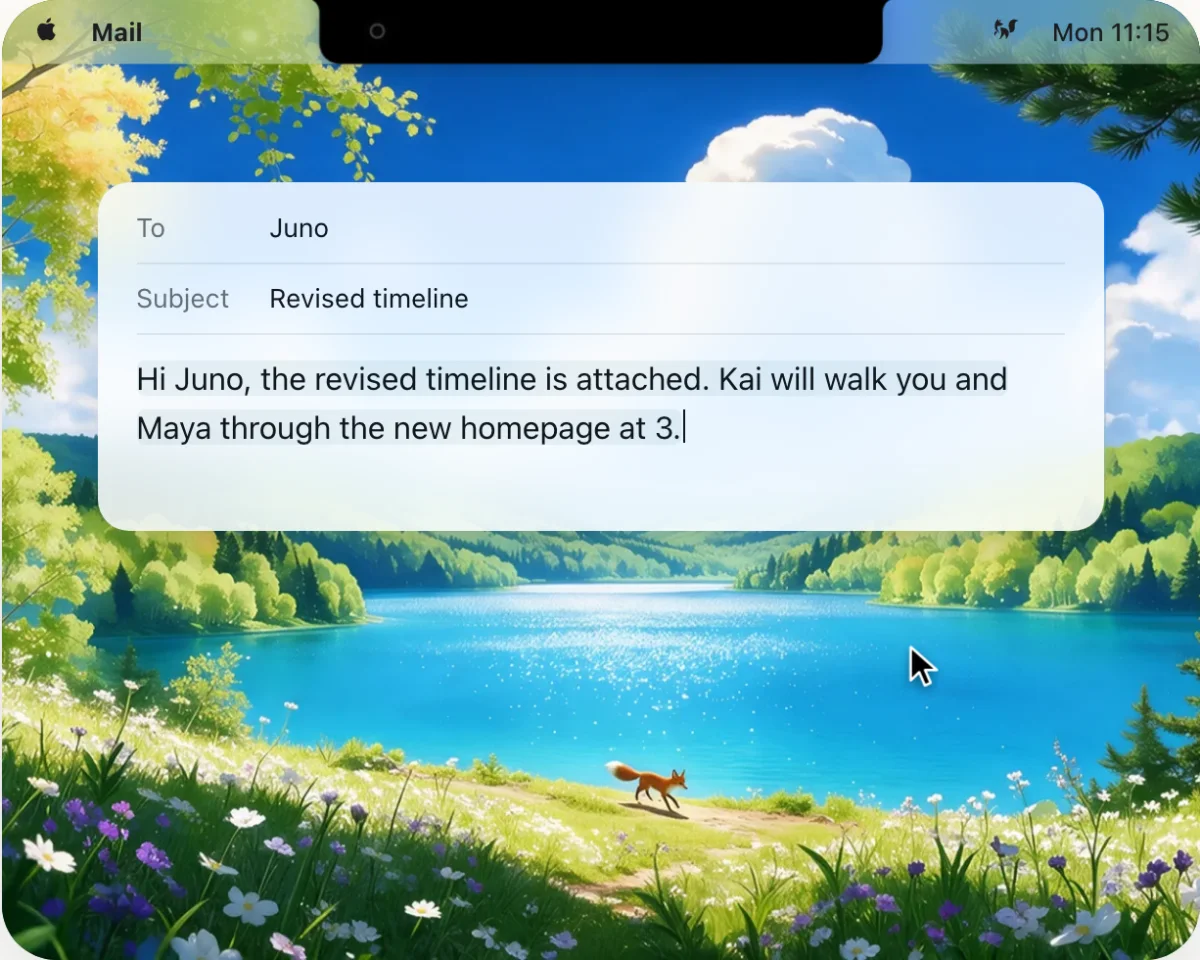
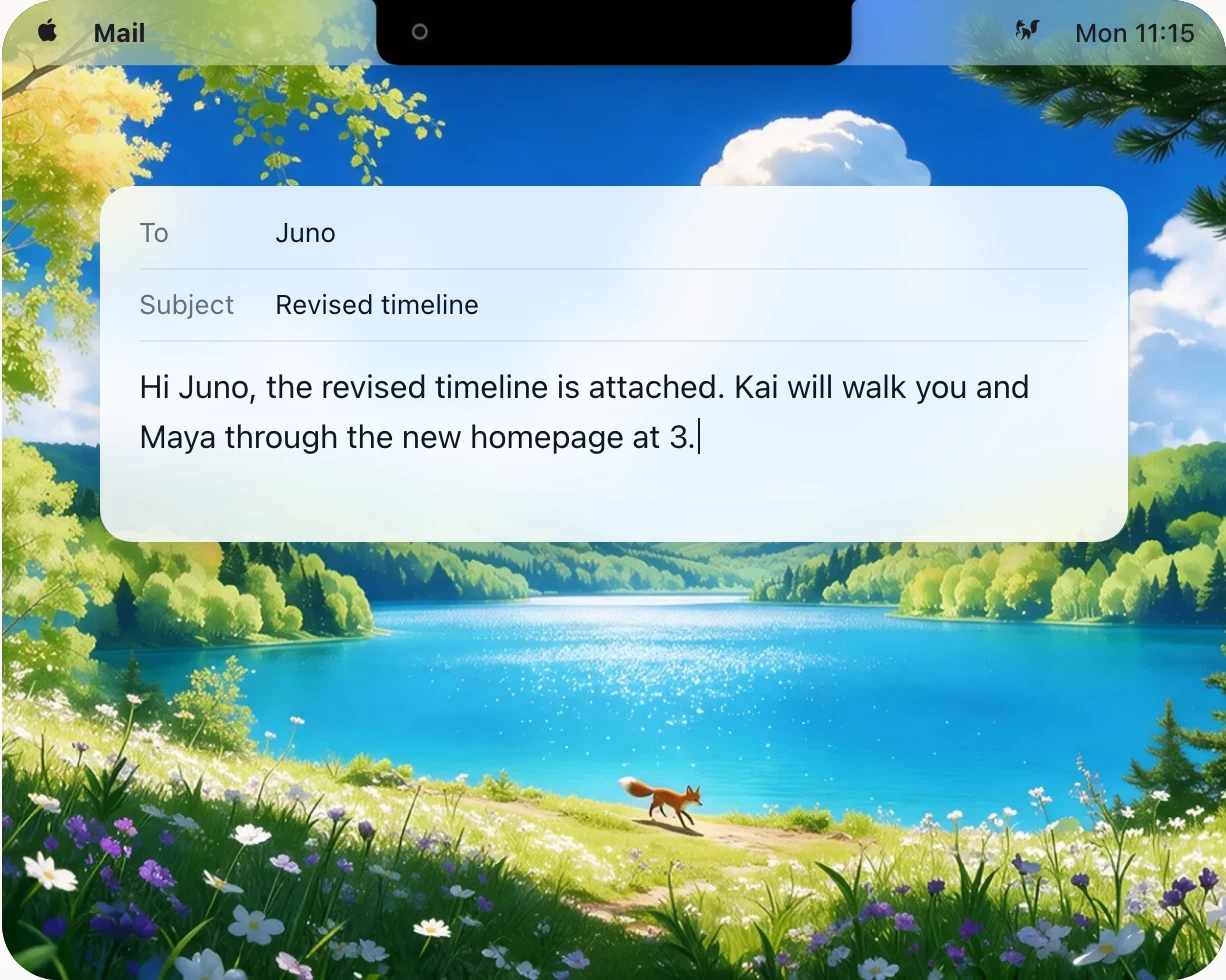
Bring the README up to Enzo 2.0.5 and the launch: the notch line, new pictures of every part, what runs where, and feedback from the app
The page now opens on the one picture that explains Enzo, in a light and a
dark version, and says what the site says: Enzo is an AI assistant that lives
in your Mac's notch. Dictation, Meetings, Recall and Chat each get the launch's
headline and a current picture from tryenzo.ai; Activity and Routines get
pictures too, and the small things get theirs. A new section says what runs on
the Mac and what uses the cloud AI. The questions add the account, the bot,
dictation's speed, Recall and which Macs. Download goes through
tryenzo.ai/download so it is counted. Support points to Help > Send Feedback,
which has been in the app since 2.0.3.

The bug form names the notch or island and setup, the issue chooser sends
account and security matters to the right place, and the security policy says
which version is supported and what a report should hold. The old window
picture (it showed the effort level as a word) and three unused files are gone.

Claude-Session: https://claude.ai/code/session_01MT1DRaNs55s4RZwCUZ739H

Changed region(s): [[0.6783, 0.0, 0.74, 0.0938], [0.2467, 0.0, 0.3392, 0.0938], [0.74, 0.6562, 0.8017, 0.7188]]

diff --git a/README.md b/README.md
@@ -1,21 +1,21 @@
 <p align="center">
-  <a href="https://tryenzo.ai">
+  <a href="https://tryenzo.ai/?utm_source=github&utm_campaign=readme">
     <picture>
-      <source media="(prefers-color-scheme: dark)" srcset=".github/readme/enzo-lockup-light.svg">
-      <img src=".github/readme/enzo-lockup-dark.svg" width="220" alt="Enzo">
+      <source media="(prefers-color-scheme: dark)" srcset=".github/readme/enzo-at-a-glance-dark.webp">
+      <img src=".github/readme/enzo-at-a-glance-light.webp" width="100%" alt="Enzo, your clever assistant: an AI assistant that lives in your Mac’s notch. Four cards over a painted lake show Dictation (talk instead of typing), Meetings (notes with every speaker named), Recall (remembers your screen) and Chat (ask it anything about your work).">
     </picture>
   </a>
 </p>
 
-<h3 align="center">Your clever assistant.</h3>
+<h3 align="center">Enzo is an AI assistant that lives in your Mac’s notch.</h3>
 
 <p align="center">
-  Enzo sits in on your meetings, types what you say, remembers what you worked on,<br>
-  and keeps track of what’s next. Your history stays on your Mac.
+  Talk instead of typing, let it take the notes in your meetings,<br>
+  and ask it anything about your work.
 </p>
 
 <p align="center">
-  <a href="https://github.com/selcamx/enzo/releases/latest">
+  <a href="https://tryenzo.ai/download?from=github_readme">
     <picture>
       <source media="(prefers-color-scheme: dark)" srcset=".github/readme/download-light.svg">
       <img src=".github/readme/download-dark.svg" width="232" alt="Download for Mac">
@@ -24,57 +24,77 @@
 </p>
 
 <p align="center">
-  <sub>Free, no card needed &nbsp;·&nbsp; 5,000 dictated words and 50 meeting minutes a week &nbsp;·&nbsp; Apple silicon, macOS 15 or later</sub>
+  <sub>Free, no card needed &nbsp;·&nbsp; Apple silicon &nbsp;·&nbsp; macOS 15 or later</sub>
 </p>
 
 <p align="center">
-  <a href="https://tryenzo.ai">Website</a> &nbsp;·&nbsp;
+  <a href="https://tryenzo.ai/?utm_source=github&utm_campaign=readme">Website</a> &nbsp;·&nbsp;
   <a href="https://tryenzo.ai/pricing">Pricing</a> &nbsp;·&nbsp;
   <a href="https://tryenzo.ai/privacy">Privacy</a> &nbsp;·&nbsp;
+  <a href="https://tryenzo.ai/guides">Guides</a> &nbsp;·&nbsp;
   <a href="https://tryenzo.ai/releases">Release notes</a> &nbsp;·&nbsp;
-  <a href="https://github.com/selcamx/enzo/issues">Get help</a>
+  <a href="https://x.com/selcamx">X</a>
 </p>
 
 <br>
 
-<p align="center">
-  <img src=".github/readme/hero.webp" width="100%" alt="Enzo’s window on a Mac: Chat has drafted an email to Juno after a call, ready to open in Mail, with Activity, Speak, Recall, Routines and Connections in the sidebar">
-</p>
+## Talk instead of typing
 
-<br>
-
-## Type at the speed of sound
-
-Press a key, talk, press it again. Clean, punctuated text lands at your cursor
-in any app on your Mac.
+Press Right ⌥, talk, press it again. Clean, punctuated text lands at your cursor
+in any app, about a tenth of a second after you stop. Enzo transcribes on your
+Mac while you speak, so it works with Wi-Fi off, in 25 languages it tells apart
+on its own.
 
 <p align="center">
   <img src=".github/readme/dictation.webp" width="600" alt="A dictated reply in Mail, landed at the cursor in one go, over a summer lake">
 </p>
 
-<p align="center"><sub>5,000 words a week on Free &nbsp;·&nbsp; Works offline &nbsp;·&nbsp; In any app on your Mac</sub></p>
+<p align="center"><sub>Ready in about 100 ms &nbsp;·&nbsp; In any app on your Mac &nbsp;·&nbsp; Works offline</sub></p>
 
 <br>
 
-## Sits in on every meeting
+## Notes with every speaker named
 
-Enzo records from your Mac, so no bot joins the call. It knows who said what,
-answers while the call is on, and writes the notes after.
+When a call starts, Enzo offers to record it from your Mac, so no bot joins. It
+tells every person apart by their voice, on a call or around one mic in a room,
+and once you’ve named someone it knows them in every meeting after. Ask about the
+call while it’s on. When it ends, the transcript is ready in seconds, and Enzo
+writes the notes and your follow-ups.
 
 <p align="center">
-  <img src=".github/readme/meetings.webp" width="600" alt="Enzo’s notch open on a call’s live transcript, with each speaker named as they talk">
+  <img src=".github/readme/meetings.webp" width="600" alt="Enzo’s notch open on a call’s live transcript, with Juno, Maya, You and Kai each named as they talk">
 </p>
 
-<p align="center"><sub>Zoom, Meet, Teams and FaceTime &nbsp;·&nbsp; Who said what, by name &nbsp;·&nbsp; Ask about the call while it’s on</sub></p>
+<p align="center"><sub>Zoom, Meet, Teams and FaceTime &nbsp;·&nbsp; Who said what, by name &nbsp;·&nbsp; Audio never leaves your Mac</sub></p>
 
 <br>
 
-## Already knows your apps
+## Remembers your screen
 
-Connect Apple Mail, Calendar, Reminders, Contacts, Notes, Messages and your folders,
-and Enzo answers from them alongside your meetings. More apps are coming. Turn on
-**Recall** and it remembers what you worked on too: the apps, titles and text, never screenshots,
-so you can find the proposal you had open last Tuesday.
+Turn on **Recall** and Enzo keeps the apps, window titles and text on your screen,
+encrypted on your Mac, so you can find any of it again and Chat can answer from
+it. It keeps text, never screenshots, and passwords, API keys and card numbers
+are hidden before anything is kept.
+
+<p align="center">
+  <img src=".github/readme/recall.webp" width="600" alt="Recall’s page for a day: the stretches of work in order, with the apps, a call and how long each took">
+</p>
+
+<p align="center"><sub>Off until you turn it on &nbsp;·&nbsp; No screenshots kept &nbsp;·&nbsp; Pause it, or keep apps and sites out</sub></p>
+
+<br>
+
+## Ask it anything about your work
+
+Press Right ⌘ in any app and ask. **Chat** answers from your meetings, what Recall
+kept, a document you drop in, what’s on your screen, and the apps you connect:
+Mail, Calendar, Reminders, Contacts, Notes, Messages and your folders. Every
+answer links what it used. Enzo drafts the reply or the calendar event, and
+nothing is sent until you confirm it.
+
+<p align="center">
+  <img src=".github/readme/chat.webp" width="600" alt="Chat answering “When does Juno need the quote?” from an email and a call’s transcript, above the apps Enzo can read">
+</p>
 
 <p align="center"><sub>Nothing to explain or paste in &nbsp;·&nbsp; Nothing sent without your click &nbsp;·&nbsp; You choose what it can read</sub></p>
 
@@ -85,7 +105,52 @@ so you can find the proposal you had open last Tuesday.
 Once your mail and calendar are connected, Enzo lists what needs you, what’s coming
 up and what you’re waiting on, all in one place: **Activity**.
 
+<p align="center">
+  <img src=".github/readme/keeps-track.webp" width="600" alt="Activity: a reply Juno is waiting for, a quote promised by Friday, and a standing desk arriving today">
+</p>
+
 <p align="center"><sub>Packages, returns, bills and renewals &nbsp;·&nbsp; Replies you owe, and what’s coming up &nbsp;·&nbsp; On Plus, the notch tells you what changed</sub></p>
+
+<br>
+
+## Has the answer waiting
+
+A **routine** is a question Enzo asks for you at a set time, like what’s on today
+and what you still owe. The answer is ready when you get there.
+
+<p align="center">
+  <img src=".github/readme/routines.webp" width="600" alt="Routines: Start my day, Get ready for tomorrow and Today’s changelog, each on weekdays at a set time">
+</p>
+
+<p align="center"><sub>Every day, weekdays, weekly or monthly &nbsp;·&nbsp; Start from one of Enzo’s, or write your own &nbsp;·&nbsp; On every plan</sub></p>
+
+<br>
+
+## The small things
+
+<p align="center">
+  <img src=".github/readme/small-things.webp" width="100%" alt="Ten more things Enzo does: hides itself when you share your screen; detects a call starting and offers to record it; detects a second speaker and switches to meeting notes; recognizes people by voice once you’ve named them; answers questions about a meeting while it’s still on; plays back the exact moment something was said; reads any document you drop in, and answers from it; answers questions about what’s on your screen; pauses your music while you dictate; lives in the notch, a floating island, or its own window.">
+</p>
+
+<br>
+
+## Built for the Mac
+
+**Designed to blend in with your Mac.** Enzo is a native Mac app. It lives in the
+notch, on a small island at any edge of your screen, or in its own window, and
+every detail is made to look and feel like it came with your Mac.
+
+**Engineered to make the most of your Mac.** The listening runs on your Mac’s
+Neural Engine, which is why dictation is fast, works offline and never sends
+audio anywhere. The thinking comes from a large model in the cloud, which gets
+only what a question or a task needs.
+
+| On your Mac | With Enzo’s cloud AI |
+| :-- | :-- |
+| Dictation, recording and transcription | Chat’s answers |
+| Telling speakers apart and recognizing voices | Meeting notes, titles and follow-ups |
+| Recall: reading, keeping and searching your screen’s text | The replies you owe, and trackers you start |
+| Your recordings, transcripts, chats and voice profiles | Recall’s names for each stretch of your day |
 
 <br>
 
@@ -140,7 +205,7 @@ on top and in how much you can dictate and take notes on each week.
 a full refund, and cancel anytime. Paying yearly gets you two months free: $100 for
 Plus, $200 for Pro. Plans are chosen and managed in the app.
 
-<sub>*Past a weekly limit on words or minutes, recordings and transcripts still save; dictation into your apps and meeting notes wait until it resets. AI usage renews every 5 hours, within a weekly limit. Long questions and High effort use more. On Free, notes, briefs and follow-ups come out of the same weekly limit.</sub>
+<sub>*Past a weekly limit on words or minutes, recordings and transcripts still save; dictation into your apps and meeting notes wait until it resets. AI usage renews every 5 hours, within a weekly limit. Long questions and High effort use more. On Free, notes and follow-ups come out of the same weekly limit.</sub>
 
 <br>
 
@@ -151,9 +216,38 @@ Plus, $200 for Pro. Plans are chosen and managed in the app.
 <br>
 
 Download Enzo, sign in with Apple, Google or an email code, and allow the permissions
-it asks for. Enzo downloads its models (about 1.1 GB). Dictation is ready after the
-first 520 MB: press your dictation key and talk. The free account applies your plan and measures AI usage; it never holds your recordings or
-chats.
+it asks for. Enzo downloads its models (about 1.1 GB), and dictation is ready after
+the first 520 MB: press Right ⌥ and talk.
+
+</details>
+
+<details>
+<summary><b>Why do I need an account?</b></summary>
+<br>
+
+A free Enzo account signs you in, applies your plan and measures your AI usage
+across your Macs. It holds no recordings or history; those stay on your Mac.
+
+</details>
+
+<details>
+<summary><b>Does a bot join my meetings?</b></summary>
+<br>
+
+No. Enzo records the meeting from your Mac’s own audio, so it works with Zoom, Meet,
+Teams, FaceTime and other calling apps without inviting a bot. Letting people know
+they’re being recorded is up to you, as with any recorder.
+
+</details>
+
+<details>
+<summary><b>How fast is dictation?</b></summary>
+<br>
+
+About a tenth of a second from when you stop talking to your words as text, for a
+typical dictation. Enzo transcribes on your Mac while you speak, so little is left
+when you stop: a seven-minute dictation is ready in about a quarter of a second, and
+an hour-long one in about two (M4 Mac, measured November 2026).
 
 </details>
 
@@ -163,6 +257,17 @@ chats.
 
 Dictation, recording and transcription do, once the models are downloaded.
 Chat and other AI features need a connection.
+
+</details>
+
+<details>
+<summary><b>What does Recall keep?</b></summary>
+<br>
+
+Recall is off until you turn it on. It keeps the apps, window and document titles
+and the readable text on your screen, encrypted on your Mac, and deletes it after
+30 days unless you choose another period. It never keeps a screenshot archive. You
+can pause it, exclude apps and sites, and delete what it kept at any time.
 
 </details>
 
@@ -197,6 +302,15 @@ one only when you confirm it.
 </details>
 
 <details>
+<summary><b>Which Macs does it run on?</b></summary>
+<br>
+
+Apple silicon Macs, M1 or newer, with macOS 15 or later. On a screen without a
+notch, Enzo sits at the top of the screen, or on its island.
+
+</details>
+
+<details>
 <summary><b>I use Chirp. What happens to it?</b></summary>
 <br>
 
@@ -211,9 +325,12 @@ still say Chirp, because that was the name at the time.
 
 ## Support
 
-Found a bug or want something changed? [Open an issue](https://github.com/selcamx/enzo/issues).
-For private support, billing or your account, email
-[hello@tryenzo.ai](mailto:hello@tryenzo.ai).
+Found a bug or want something changed? Tell us from Enzo: choose
+**Help › Send Feedback…** in the menu bar. It opens an issue here, sends any
+diagnostics to us privately, and can credit you by first name. You can also
+[open an issue](https://github.com/selcamx/enzo/issues/new/choose) yourself. For private
+support, billing or your account, email [hello@tryenzo.ai](mailto:hello@tryenzo.ai).
+To report a security problem, see the [security policy](SECURITY.md).
 
 ## About this repository
 
@@ -222,4 +339,5 @@ is proprietary software: its source code is private and isn’t published here, 
 app is licensed to you under the [Terms of Service](https://tryenzo.ai/terms). The
 releases before 2.0 are Chirp, Enzo’s earlier name.
 
-If Enzo helps you, starring this repository helps other people find it.
+Enzo is built by Selim Cam. Follow along on [X](https://x.com/selcamx). If Enzo
+helps you, starring this repository helps other people find it.

diff --git a/SECURITY.md b/SECURITY.md
@@ -1,9 +1,24 @@
-# Security Policy
+# Security policy
 
-## Reporting a Vulnerability
+## Supported versions
 
-If you discover a security vulnerability in Enzo, please report it privately by emailing **hello@tryenzo.ai** with "Security" in the subject line.
+Security fixes go into the latest release of Enzo. The app updates itself, and
+the current version is always at [tryenzo.ai](https://tryenzo.ai) and on the
+[releases page](https://github.com/selcamx/enzo/releases/latest).
 
-Please do **not** open a public GitHub issue for security vulnerabilities.
+## Reporting a vulnerability
 
-We will acknowledge your report within 48 hours and work with you to resolve the issue.
+Please report it privately, and don’t open a public issue.
+
+- Email **hello@tryenzo.ai** with “Security” in the subject line.
+
+Tell us what you found, how to reproduce it, and which version of Enzo and macOS
+you were on. Leave out other people’s data.
+
+We’ll acknowledge your report within 48 hours, keep you posted while we work on
+it, and credit you in the release notes if you’d like.
+
+## Scope
+
+The Enzo app for Mac, tryenzo.ai and Enzo’s account service. Enzo’s source code is
+private, so this repository holds only releases, their notes and the issue tracker.
